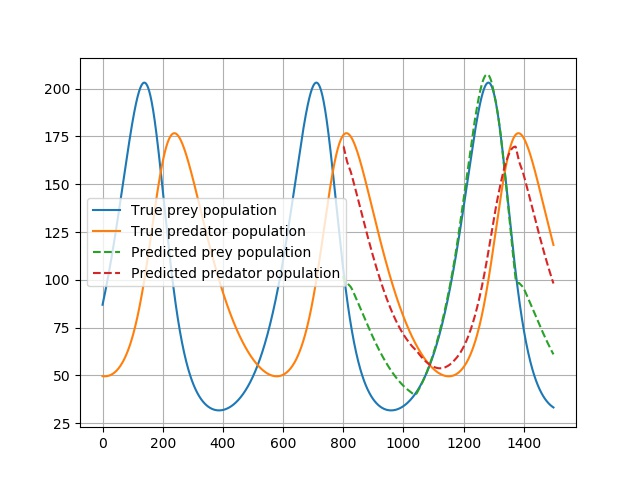
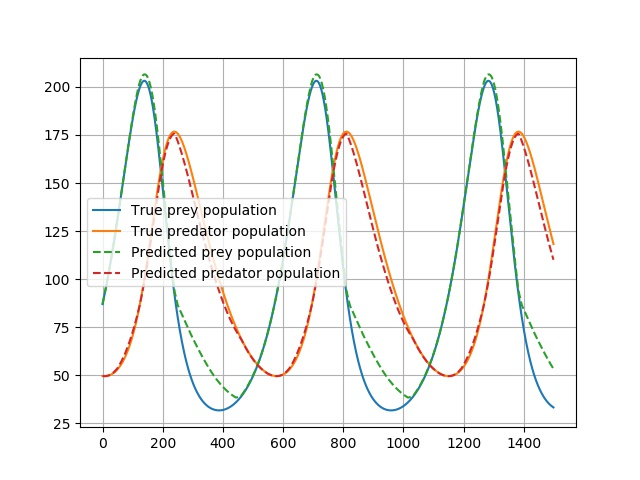
update data generation func in TCN randinit model

diff --git a/TCN/prey_pred_model/prey_pred_sequence_randInit_TCN.py b/TCN/prey_pred_model/prey_pred_sequence_randInit_TCN.py
@@ -19,7 +19,7 @@ parser.add_argument('--dropout', type=float, default=0.0,
                     help='dropout applied to layers (default: 0.0)')
 parser.add_argument('--clip', type=float, default=-1,
                     help='gradient clip, -1 means no clip (default: -1)')
-parser.add_argument('--epochs', type=int, default=6000,
+parser.add_argument('--epochs', type=int, default=5000,
                     help='upper epoch limit (default: 100)')
 parser.add_argument('--ksize', type=int, default=7,
                     help='kernel size (default: 7)')
@@ -58,10 +58,10 @@ training_examples = 800
 print(args)
 print("Producing data...")
 data = prey_pred_data_randinit(total_examples, seq_length)
-X_train = data[0][:training_examples,:,:]
-Y_train = data[1][:training_examples,:]
-X_test = data[0][training_examples:,:,:]
-Y_test = data[1][training_examples:,:]
+X_train = torch.from_numpy(data[0][:training_examples,:,:] ).float()
+Y_train = torch.from_numpy( data[1][:training_examples,:] ).float()
+X_test = torch.from_numpy (data[0][training_examples:,:,:]).float()
+Y_test = torch.from_numpy ( data[1][training_examples:,:] ).float()
 
 # Note: We use a very simple setting here (assuming all levels have the same # of channels.
 channel_sizes = [args.nhid]*args.levels
@@ -127,18 +127,18 @@ plt.title('Trainng and Validation Losses')
 plt.legend(['Training Loss','Validation Loss'])
 plt.savefig('rand_init/prey_pred_losses_randInit.jpg')
 
-data = prey_pred_data(total_examples, seq_length)
-X_test = data[0][training_examples:,:,:]
+data = prey_pred_data_constinit(total_examples, seq_length)
+X_test = torch.from_numpy(data[0]).float()
 if args.cuda:
     X_test = X_test.cuda()
 model.eval()
 output = model(X_test)
 
 plt.figure()
-plt.plot(range(total_examples),data[1][:,0].cpu().numpy())
-plt.plot(range(total_examples),data[1][:,1].cpu().numpy())
-plt.plot(range(training_examples,total_examples),output[:,0].cpu().detach().numpy(), '--')
-plt.plot(range(training_examples,total_examples),output[:,1].cpu().detach().numpy(), '--')
+plt.plot(range(total_examples),data[1][:,0])
+plt.plot(range(total_examples),data[1][:,1])
+plt.plot(range(total_examples),output[:,0].cpu().detach().numpy(), '--')
+plt.plot(range(total_examples),output[:,1].cpu().detach().numpy(), '--')
 plt.grid(True)
 plt.legend(['True prey population', 'True predator population', 'Predicted prey population', 'Predicted predator population'] ,loc='center left')
 plt.savefig('rand_init/prey_pred_prediction_vizualization_randInit.jpg')
